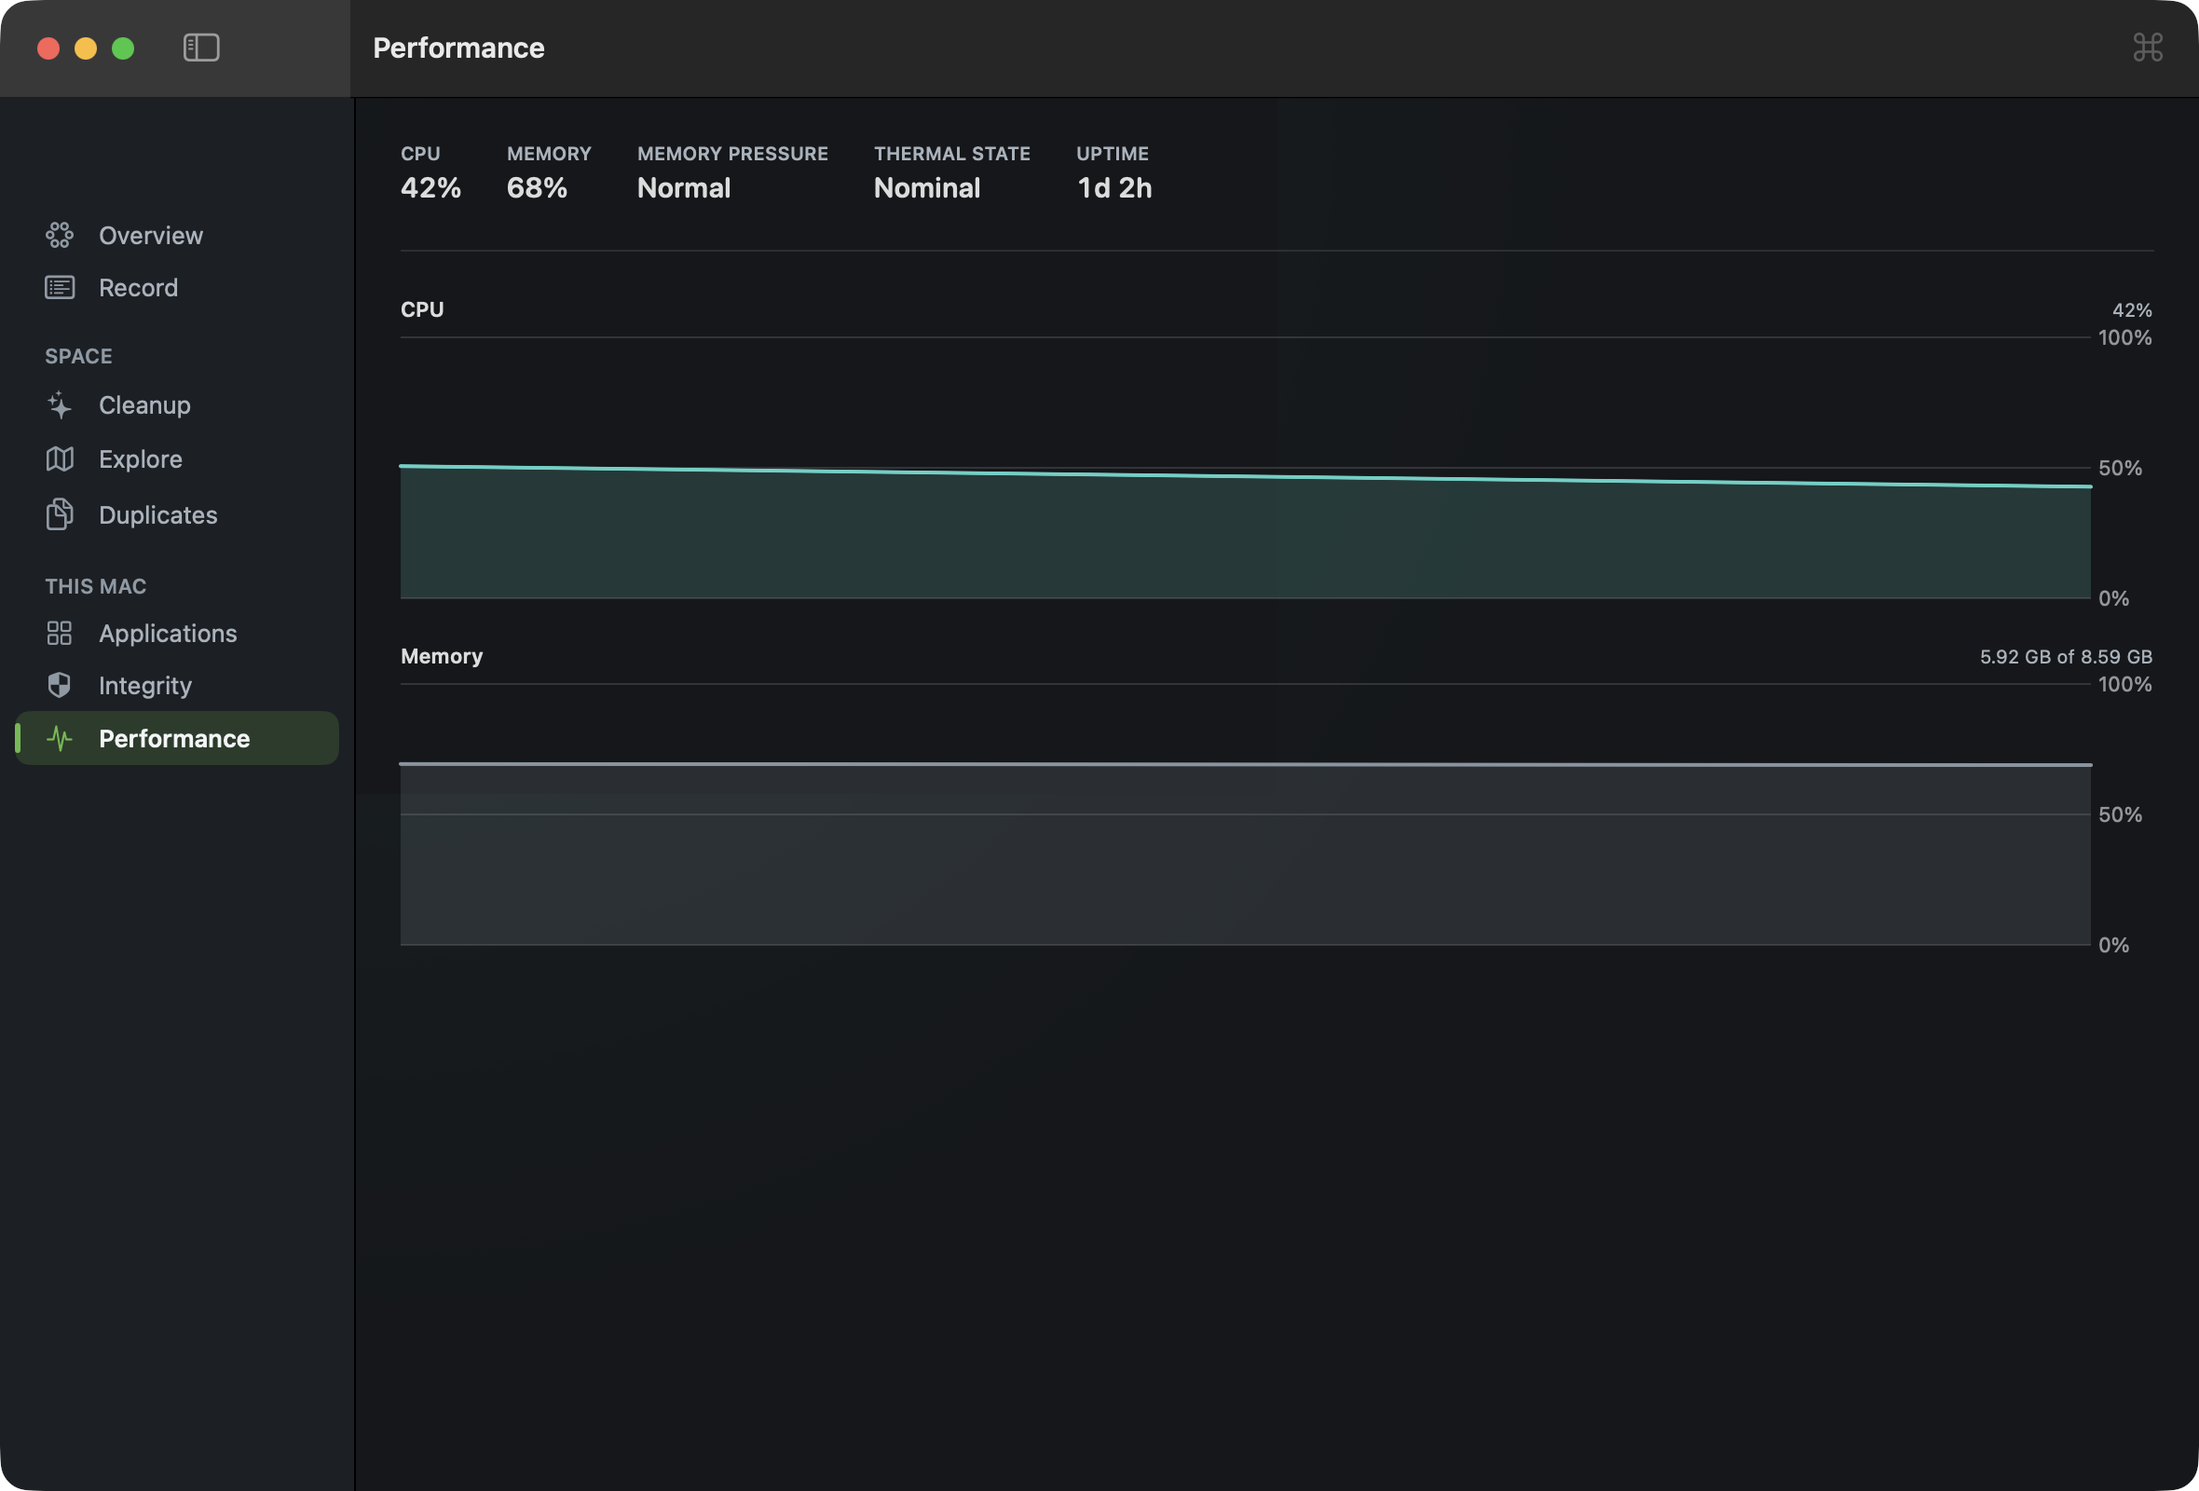
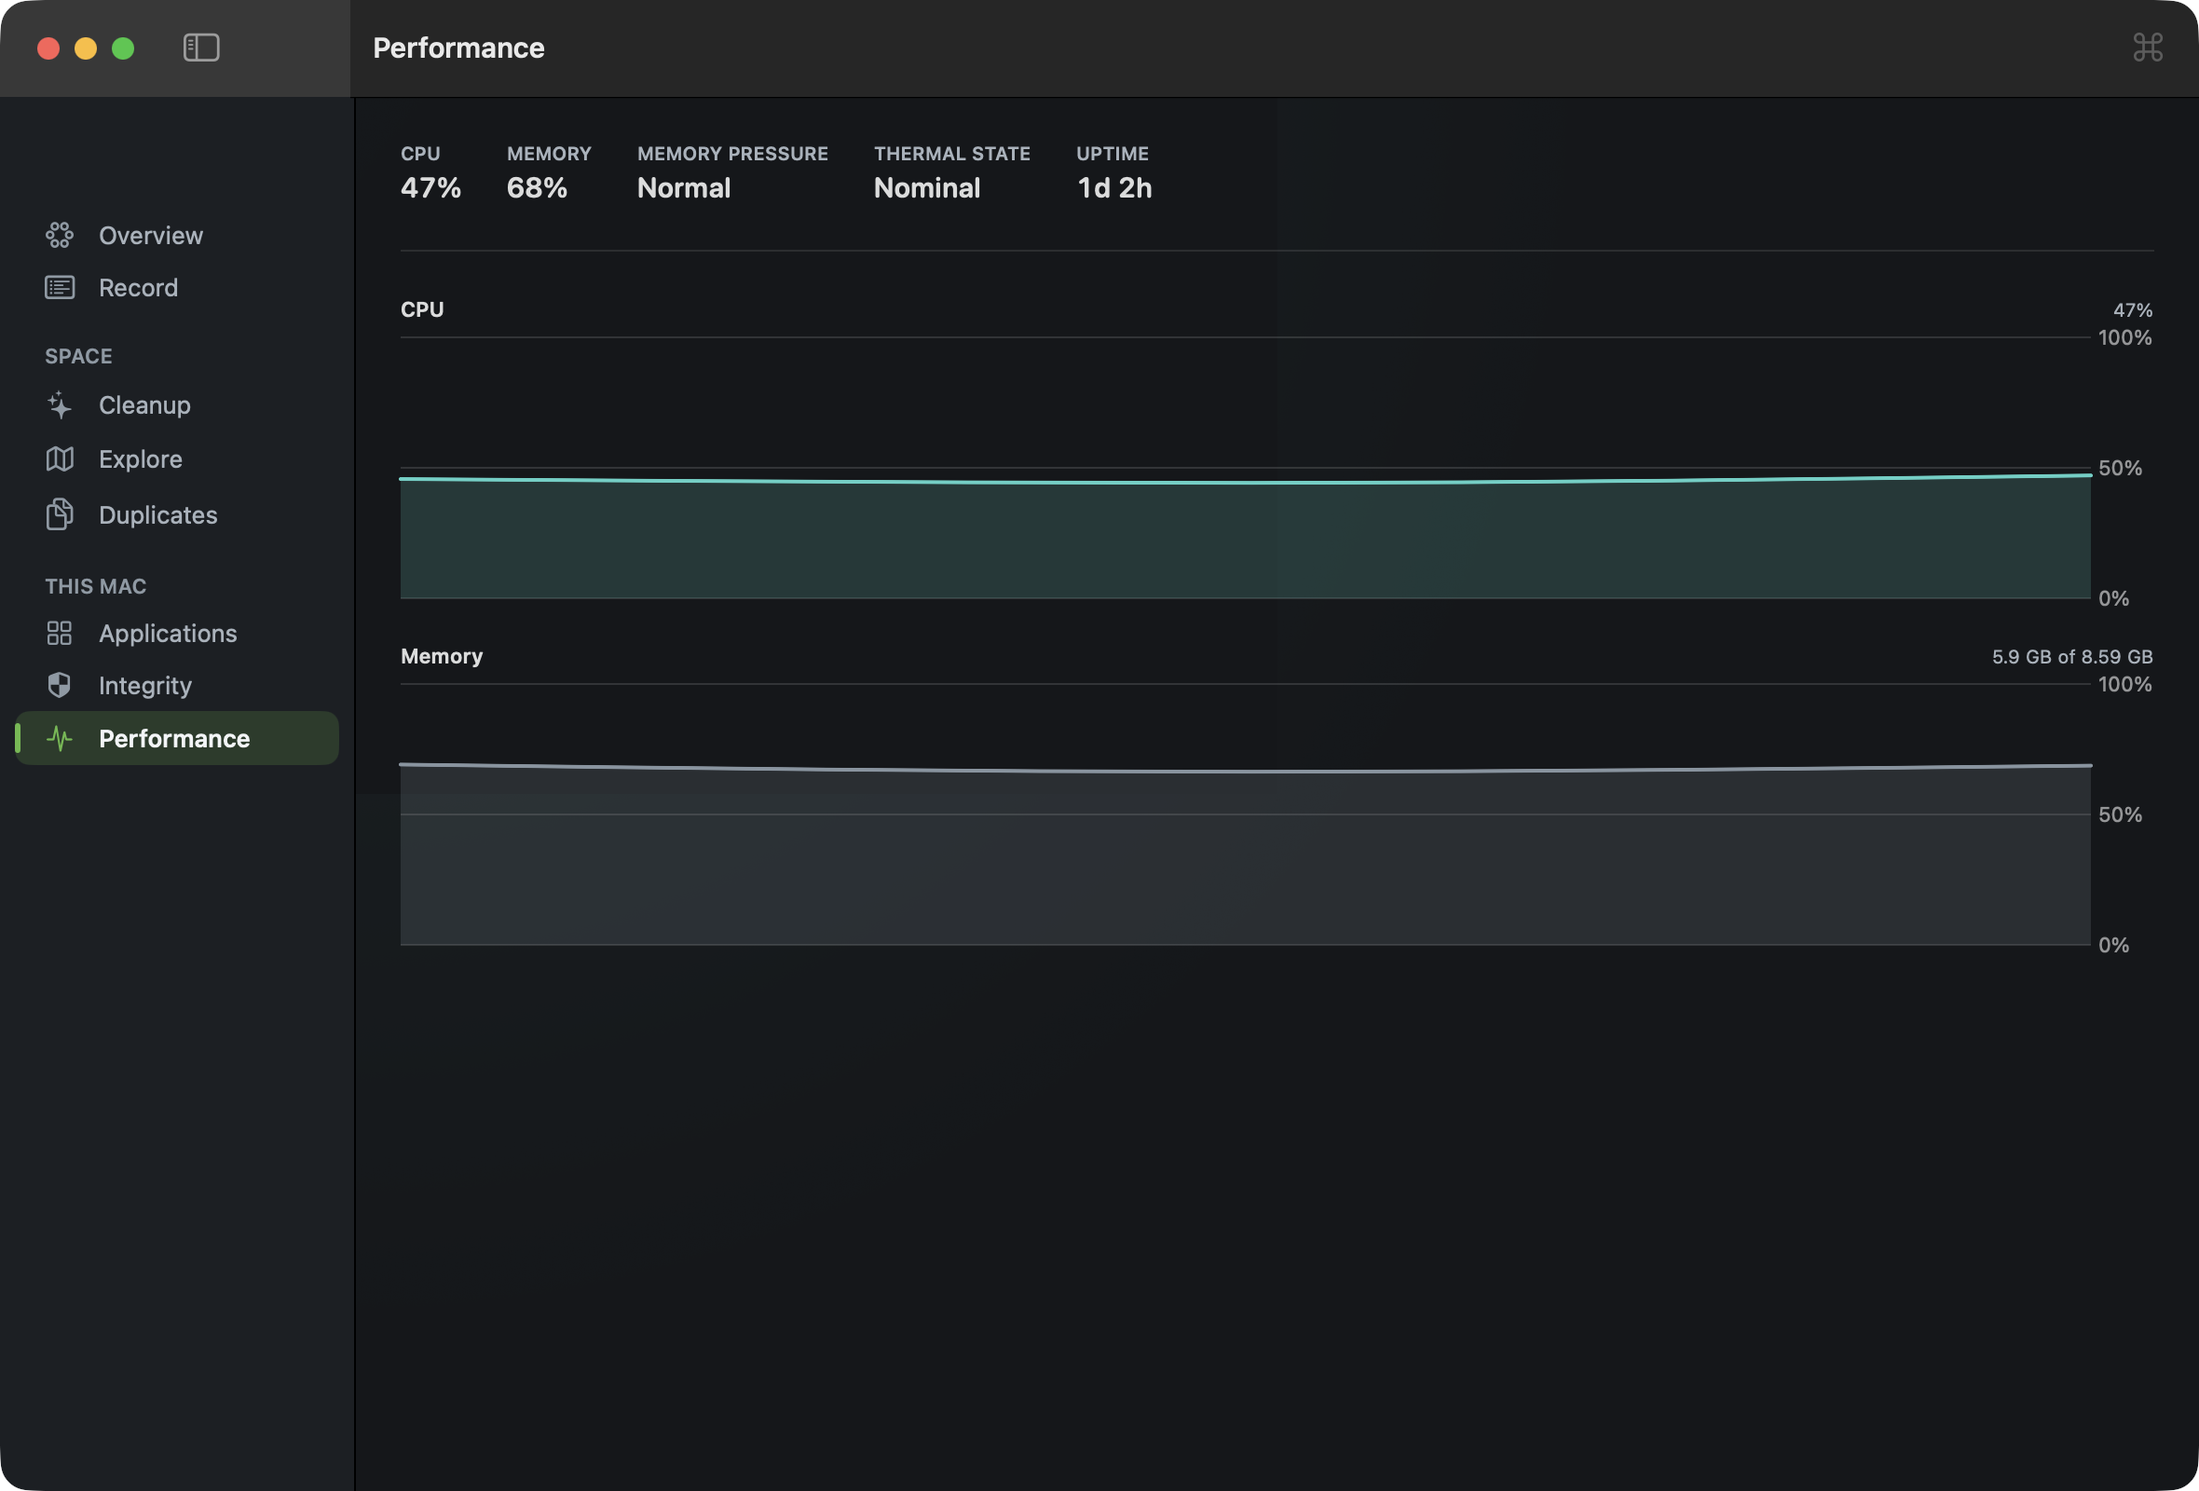
Status pills are a solid fill, because the tint does not measure
Five screens built pills as ink.opacity(0.18) behind the same ink. I wrote a
token comment claiming that clears 4.5:1 everywhere, then measured it: the
worst pairing is slate on a dark raised surface at 3.67:1, and the opacity
that would fix it is 0.05 — which is not a pill. Tinting a label with its own
colour is the wrong shape, not a wrong number.

MCStatusTag uses a solid semantic fill with the appearance's on-accent ink:
5.19:1 at worst across every state, both appearances, both contrast modes. The
old construction is kept as a test, so nobody reintroduces it believing it
works. Every other opacity in the app is now a named token with a reason.

Claude-Session: https://claude.ai/code/session_01SwbUPTfhPnzWfWjNmKExgk

Changed region(s): [[0.2475, 0.5, 0.897, 0.5312], [0.1856, 0.3125, 0.6805, 0.3438], [0.7733, 0.3125, 0.9589, 0.3438]]

diff --git a/Tests/DesignSystemTests/AppearancePaletteTests.swift b/Tests/DesignSystemTests/AppearancePaletteTests.swift
@@ -115,3 +115,51 @@ struct AppearancePaletteTests {
         }
     }
 }
+
+/// A status pill is a solid fill, not a tint of its own ink.
+///
+/// Five screens built pills as `ink.opacity(0.18)` behind the same ink. That
+/// construction measures 3.67:1 at its worst (slate on a dark raised surface),
+/// and the opacity that would clear 4.5:1 is 0.05 — which is not a pill. A
+/// solid semantic fill with the appearance's on-accent ink measures 5.19:1 at
+/// worst across every state in both appearances.
+@Suite("Status tags are legible on their own fill")
+struct StatusTagContrastTests {
+    private func ratio(_ ink: MCPaletteColor, on fill: MCPaletteColor, dark: Bool, contrast: Bool) -> Double {
+        MCColor.contrastRatio(ink.value(dark: dark, highContrast: contrast),
+                              fill.value(dark: dark, highContrast: contrast))
+    }
+
+    @Test func everyToneCarriesItsLabel() {
+        let tones: [(String, MCPaletteColor)] = [
+            ("success", MCPalette.green), ("attention", MCPalette.amber),
+            ("failure", MCPalette.coral), ("inert", MCPalette.slate),
+            ("accent", MCPalette.teal),
+        ]
+        for (name, fill) in tones {
+            for dark in [true, false] {
+                for contrast in [true, false] {
+                    let r = ratio(MCPalette.onAccent, on: fill, dark: dark, contrast: contrast)
+                    #expect(r >= 4.5,
+                            "\(name) pill in \(dark ? "dark" : "light")\(contrast ? " + contrast" : ""): \(r):1")
+                }
+            }
+        }
+    }
+
+    /// The construction that was replaced, kept as a measurement so nobody
+    /// reintroduces it believing it works.
+    @Test func tintingALabelWithItsOwnColourWouldNotWork() {
+        let ink = MCPalette.slate.dark
+        let surface = MCPalette.raised.dark
+        func blend(_ a: Double) -> UInt32 {
+            var out: UInt32 = 0
+            for shift in [16, 8, 0] {
+                let f = Double((ink >> UInt32(shift)) & 0xFF), b = Double((surface >> UInt32(shift)) & 0xFF)
+                out |= UInt32((f * a + b * (1 - a)).rounded()) << UInt32(shift)
+            }
+            return out
+        }
+        #expect(MCColor.contrastRatio(ink, blend(0.18)) < 4.5)
+    }
+}

diff --git a/Sources/DesignSystem/Tokens.swift b/Sources/DesignSystem/Tokens.swift
@@ -153,9 +153,34 @@ private struct MCAnimationModifier<V: Equatable>: ViewModifier {
     }
 }
 
+/// The only opacities the app uses, each with a reason.
+///
+/// Views carried ten ad-hoc values between them — 0.16 here, 0.18 there, 0.35,
+/// 0.55, 0.85 — none measured and none reused deliberately. A number nobody
+/// can name is a number nobody checked.
+///
+/// Status pills are deliberately absent: tinting a label with its own colour
+/// at any usable opacity fails the text minimum (worst pairing 3.67:1, and the
+/// opacity that would fix it is 0.05, which is not a pill). `MCStatusTag` uses
+/// a solid fill instead.
 public enum MCOpacity {
     /// Track ring behind a determinate progress arc (Core Bloom, metric rings).
     public static let orbitTrack: Double = 0.14
+    /// Selection wash behind a sidebar row, over the user's accent. Measured
+    /// with the label on top across all seven system accents — see
+    /// `SidebarAccentTests`.
+    public static let selectionWash: Double = 0.18
+    /// A chart's area under its line: enough to read as volume, faint enough
+    /// not to compete with the line.
+    public static let chartArea: Double = 0.18
+    /// A secondary figure on a filled surface, where full strength would fight
+    /// the primary label beside it.
+    public static let onFillSecondary: Double = 0.85
+    /// A hairline that separates without drawing a line the eye stops on.
+    public static let hairline: Double = 0.55
+    /// A shade over a cell whose contents could not be read, so it reads as
+    /// unavailable rather than as dark-coloured data.
+    public static let unavailableOverlay: Double = 0.35
 }
 
 /// Semantic colour aliases. Views reference these role names (`accent`,

diff --git a/Sources/DesignSystem/StatusTag.swift b/Sources/DesignSystem/StatusTag.swift
@@ -1,0 +1,49 @@
+// SPDX-License-Identifier: Apache-2.0
+// SPDX-FileCopyrightText: The CoreTend Authors
+
+import SwiftUI
+
+/// A short word naming a state: Reversible, Refused, Failed, Protected.
+///
+/// The app built these by hand in five places as `ink.opacity(0.18)` behind
+/// the same ink. Measured, that construction does not work: the blend sits too
+/// close to the ink, and the worst pairing — slate on a dark raised surface —
+/// came to 3.67:1. The opacity that would fix it is 0.05, which is not a pill
+/// any more. Tinting a label with its own colour is simply the wrong shape.
+///
+/// A solid semantic fill with the appearance's on-accent ink measures 5.19:1
+/// at worst across every state in both appearances, and reads as a badge
+/// rather than as a faint smudge.
+public struct MCStatusTag: View {
+    public enum Tone {
+        case success, attention, failure, inert, accent
+
+        var fill: Color {
+            switch self {
+            case .success: MCTheme.success
+            case .attention: MCTheme.warning
+            case .failure: MCTheme.danger
+            case .inert: MCColor.graphite
+            case .accent: MCColor.teal
+            }
+        }
+    }
+
+    private let text: String
+    private let tone: Tone
+
+    public init(_ text: String, tone: Tone) {
+        self.text = text
+        self.tone = tone
+    }
+
+    public var body: some View {
+        Text(text)
+            .font(MCFont.badge)
+            .padding(.horizontal, 7)
+            .padding(.vertical, 2)
+            .background(tone.fill, in: Capsule())
+            .foregroundStyle(MCColor.onAccent)
+            .accessibilityLabel(text)
+    }
+}

diff --git a/Sources/CoreTendApp/CloudCleanupView.swift b/Sources/CoreTendApp/CloudCleanupView.swift
@@ -368,19 +368,15 @@ struct CloudCleanupView: View {
             switch state {
             case .local: EmptyView()
             case .partial:
-                badge(L("cloud.state.partial"), color: MCTheme.warning)
+                badge(L("cloud.state.partial"), tone: .attention)
             case .placeholder:
-                badge(L("cloud.state.placeholder"), color: .secondary)
+                badge(L("cloud.state.placeholder"), tone: .inert)
             }
         }
     }
 
-    private func badge(_ text: String, color: Color) -> some View {
-        Text(text)
-            .font(MCFont.microEmphasis)
-            .padding(.horizontal, 6).padding(.vertical, 2)
-            .background(color.opacity(0.16), in: Capsule())
-            .foregroundStyle(color)
+    private func badge(_ text: String, tone: MCStatusTag.Tone) -> some View {
+        MCStatusTag(text, tone: tone)
     }
 
     private func accessibilityStateText(_ state: CloudCleanupViewModel.SyncState) -> String {

diff --git a/Sources/CoreTendApp/RecordView.swift b/Sources/CoreTendApp/RecordView.swift
@@ -453,11 +453,7 @@ private struct RecordStateTag: View {
     let entry: LedgerEntry
 
     var body: some View {
-        Text(label)
-            .font(MCFont.badge)
-            .padding(.horizontal, 7).padding(.vertical, 3)
-            .background(color.opacity(0.18), in: Capsule())
-            .foregroundStyle(color)
+        MCStatusTag(label, tone: tone)
     }
 
     private var label: String {
@@ -467,11 +463,11 @@ private struct RecordStateTag: View {
         return L("record.tag_recorded")
     }
 
-    private var color: Color {
-        if !entry.failed.isEmpty { return MCTheme.danger }
-        if entry.isRefusalOnly { return MCTheme.warning }
-        if entry.isReversible { return MCTheme.success }
-        return MCColor.textSecondary
+    private var tone: MCStatusTag.Tone {
+        if !entry.failed.isEmpty { return .failure }
+        if entry.isRefusalOnly { return .attention }
+        if entry.isReversible { return .success }
+        return .inert
     }
 }
 

diff --git a/Sources/CoreTendApp/LeftoversView.swift b/Sources/CoreTendApp/LeftoversView.swift
@@ -150,11 +150,7 @@ struct LeftoversView: ModuleSubScreen {
                     .accessibilityLabel("\(L("leftovers.select_item", item.url.lastPathComponent))\(model.isAmbiguous(item) ? ", \(L("leftovers.shared_review"))" : "")")
                     Text(item.url.lastPathComponent).lineLimit(1)
                     if model.isAmbiguous(item) {
-                        Text(L("leftovers.shared_review"))
-                            .font(MCFont.badge)
-                            .padding(.horizontal, 6).padding(.vertical, 2)
-                            .background(MCTheme.warning.opacity(0.18), in: Capsule())
-                            .foregroundStyle(MCTheme.warning)
+                        MCStatusTag(L("leftovers.shared_review"), tone: .attention)
                     }
                     Text(L("leftovers.not_installed", item.kind.rawValue))
                         .font(MCFont.caption).foregroundStyle(MCColor.textSecondary)

diff --git a/Sources/CoreTendApp/SimilarImagesView.swift b/Sources/CoreTendApp/SimilarImagesView.swift
@@ -227,11 +227,7 @@ struct SimilarImagesView: ModuleSubScreen {
                                 HStack {
                                     Text(url.lastPathComponent).lineLimit(1)
                                     if url == best {
-                                        Text(L("similar.best_resolution"))
-                                            .font(MCFont.badge)
-                                            .padding(.horizontal, MCSpacing.xxs).padding(.vertical, 1)
-                                            .background(MCTheme.success.opacity(0.18), in: Capsule())
-                                            .foregroundStyle(MCTheme.success)
+                                        MCStatusTag(L("similar.best_resolution"), tone: .success)
                                     }
                                     Spacer()
                                     ExcludeButton(url: url, controller: model.exclusionsController)

diff --git a/Sources/CoreTendApp/SpaceLensView.swift b/Sources/CoreTendApp/SpaceLensView.swift
@@ -503,12 +503,12 @@ struct SpaceMapView: View {
                 Rectangle().fill(Color.white.opacity(isSelected ? 0.14 : 0.07))
             }
             if r.node.isAccessDenied {
-                Rectangle().fill(Color.black.opacity(0.35))
+                Rectangle().fill(Color.black.opacity(MCOpacity.unavailableOverlay))
             }
             if showLabel {
                 VStack(alignment: .leading, spacing: 0) {
                     Text(r.node.name).font(MCFont.captionEmphasis).lineLimit(1)
-                    Text(mcFormatBytes(r.node.size)).font(MCFont.micro).opacity(0.85)
+                    Text(mcFormatBytes(r.node.size)).font(MCFont.micro).opacity(MCOpacity.onFillSecondary)
                 }
                 .foregroundStyle(.white)
                 .padding(5)

diff --git a/Sources/CoreTendApp/DuplicatesView.swift b/Sources/CoreTendApp/DuplicatesView.swift
@@ -475,10 +475,7 @@ struct DuplicatesView: View {
                     Text(PathDisplay.folder(of: url)).font(MCFont.monoCaption)
                         .lineLimit(1).truncationMode(.middle)
                     if isKeeper {
-                        Text(L("dupes.suggested_keeper")).font(MCFont.badge)
-                            .padding(.horizontal, 6).padding(.vertical, 2)
-                            .background(MCTheme.success.opacity(0.18), in: Capsule())
-                            .foregroundStyle(MCTheme.success)
+                        MCStatusTag(L("dupes.suggested_keeper"), tone: .success)
                     }
                 }
                 Text(model.recommendationText(for: url, in: group))

diff --git a/Sources/CoreTendApp/PerformanceView.swift b/Sources/CoreTendApp/PerformanceView.swift
@@ -152,7 +152,7 @@ struct PerformanceView: View {
             if model.samples.count > 1 {
                 Chart(model.samples) { sample in
                     AreaMark(x: .value("Time", sample.date), y: .value(title, sample[keyPath: keyPath]))
-                        .foregroundStyle(color.opacity(0.18))
+                        .foregroundStyle(color.opacity(MCOpacity.chartArea))
                     LineMark(x: .value("Time", sample.date), y: .value(title, sample[keyPath: keyPath]))
                         .foregroundStyle(color)
                         .interpolationMethod(.monotone)

diff --git a/Sources/CoreTendApp/Sidebar.swift b/Sources/CoreTendApp/Sidebar.swift
@@ -225,7 +225,7 @@ struct Sidebar: View {
         // Derived from the accent rather than fixed, so it follows the user's
         // choice. 0.18 keeps `textPrimary` well past 4.5:1 on every accent
         // macOS offers — measured, not assumed; see SidebarAccentTests.
-        if isSelected { return Color.accentColor.opacity(0.18) }
+        if isSelected { return Color.accentColor.opacity(MCOpacity.selectionWash) }
         if isHovered { return MCColor.elevatedBackground }
         return .clear
     }

diff --git a/Sources/CoreTendApp/Shell/MenuBar.swift b/Sources/CoreTendApp/Shell/MenuBar.swift
@@ -147,7 +147,7 @@ struct MenuBarView: View {
             .font(MCFont.secondaryBody)
             GeometryReader { geo in
                 ZStack(alignment: .leading) {
-                    Capsule().fill(MCColor.separator.opacity(0.55))
+                    Capsule().fill(MCColor.separator.opacity(MCOpacity.hairline))
                     Capsule().fill(tint)
                         .frame(width: max(3, geo.size.width * min(max(fraction, 0), 1)))
                 }
